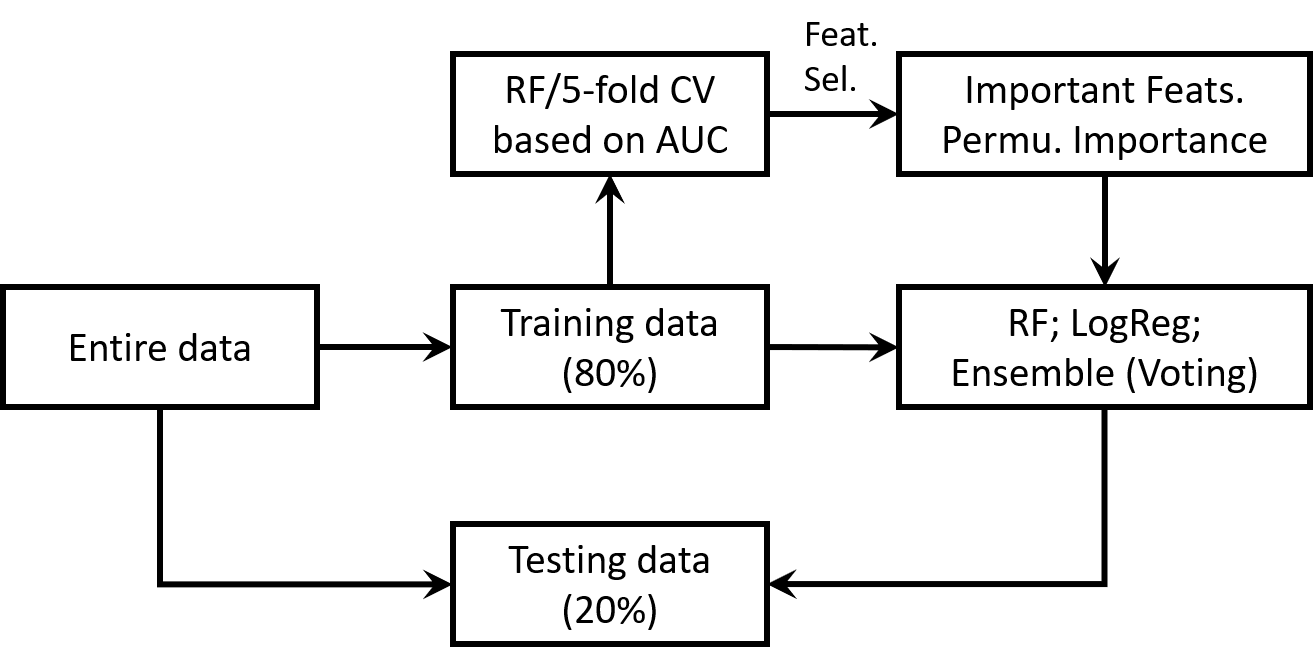
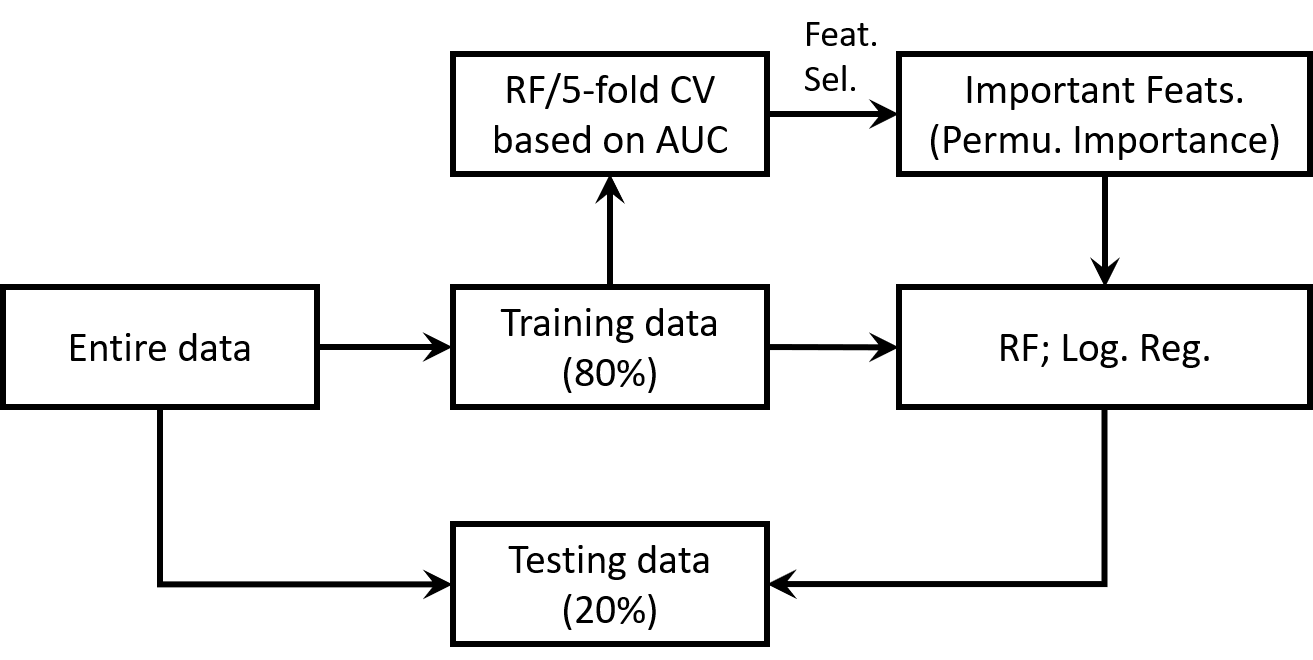
update repo

Changed region(s): [[0.7182, 0.4545, 0.968, 0.6061], [0.968, 0.2121, 0.9992, 0.2424], [0.687, 0.2121, 0.7182, 0.2424]]

diff --git a/README.md b/README.md
@@ -2,7 +2,7 @@
 
 ---
 
-## Predicting Approval Status of Mortgage Refinancing
+## Predicting Lenders' Decision on Home Loan Refinancing Application
 
 **A Classification Analysis**
 
@@ -14,7 +14,7 @@ Final presentation is posted [here](https://github.com/weizhao-BME/metis-project
 
 ### **Introduction** 
 
-Many believe that mortgage rate will stop dropping. The National Association of Realtors expected rates still keep at a low level as 2020. To date, mortgage rate is near record lows, which signifies an economy that continues to struggle. This rate environment is advantageous for those who are seeking a refinancing to offload the financial burdens. Therefore, it is a good idea to apply for refinancing as soon as possible in order to secure a low rate. It is beneficial to understand what financial features lenders focus on to make decisions on approval and how these features play a role in approving or denying applications. 
+The National Association of Realtors expected rates still keep at a low level as 2020. To date, mortgage rate is near record lows, which signifies an economy that continues to struggle. This rate environment is advantageous for those who are seeking a refinancing to offload the financial burdens. Therefore, it is a good idea to apply for refinancing as soon as possible in order to secure a low rate. It is beneficial to understand what financial features lenders focus on to make decisions on approval and how these features play a role in approving or denying applications. 
 
 This project addressed these questions using a machine learning approach. First, the data was collected from Home Mortgage Disclosure Act (HMDA) query website. Second, a feature selection was performed using a 5-fold cross-validated random forest model after initial data cleaning in order to identify important financial features. Following this step, a random forest model was trained using all the training data along with selected features. Because random forest model has limited ability to interpret feature importance, a logistic regression model was trained and tuned using selected features based on a 5-fold cross-validation. Finally, the random forest and logistic regression models were used to establish a voting-based ensemble model for a balanced performance. 
 
@@ -24,7 +24,7 @@ This project addressed these questions using a machine learning approach. First,
 
 The figure below shows the workflow of classification modeling. 
 
-<img src="https://github.com/weizhao-BME/metis-project3/blob/main/figures/workflow.png" alt="Figure 1" width="600"/>
+<img src="https://github.com/weizhao-BME/metis-project3/blob/main/figures/workflow.png" alt="Figure 1" width="500"/>
 
 #### **Data cleaning**
 
@@ -32,7 +32,7 @@ A total of 78620 refinancing applications in Massachusetts  were collected from 
 
 The Figure below shows a summary of the raw data during data query. 
 
-<img src="https://github.com/weizhao-BME/metis-project3/blob/main/figures/data_summary.png" alt="Figure 2" width="600"/>
+<img src="https://github.com/weizhao-BME/metis-project3/blob/main/figures/data_summary.png" alt="Figure 2" width="500"/>
 
 #### **Model-based feature selection**
 
@@ -46,7 +46,7 @@ Permutation importance was calculated to rank the features, because the impurity
 
 For all the training data, the selected important features were employed to train a random forest model. Its performance based on an independent testing dataset, in terms of ROC-AUC and confusion matrix were reported. 
 
-Because the features selected based on permutation importance do not inform how lenders make decisions on approval using these features, a logistic regression model was trained and cross-validated (5-fold) utilizing the existing training and validation datasets. The regularization parameter, penalty strength("C" (list of [0.0, 0.0001, 0.001, 0.01, 0.1, 1.0])),  was tuned to maximize the model performance. Finally, using the best "C", the same selected features and all the training data, a logistic regression model was trained and further tested using the independent testing dataset. This offers a way of investigating the coefficient-based relative feature importance. Similar to the random forest model, the ROC-AUC and confusion matrix were reported. 
+Because the features selected based on permutation importance do not inform how lenders make decision on approval using these features, a logistic regression model was trained and cross-validated (5-fold) utilizing the existing training and validation datasets. The regularization parameter, penalty strength("C" (list of [0.0, 0.0001, 0.001, 0.01, 0.1, 1.0])),  was tuned to maximize the ROC-AUC. Finally, using the best "C", the same selected features and all the training data, a logistic regression model was trained and further tested using the independent testing dataset. This offers a way of investigating the coefficient-based relative feature importance. Similar to the random forest model, the ROC-AUC and confusion matrix were reported. 
 
 ----------
 
@@ -65,7 +65,7 @@ Coefficient-based relative feature importance reported from logistic regression 
 
 and are more likely to reject applications if:
 
-- The load is not subject to HOEPA regulations 
+- The loan is not subject to HOEPA regulations 
 - The property is used as principal residence
 - The applicants have high debt-to-income ratios
 - The property is not primarily used for a business or commercial purpose
@@ -73,13 +73,9 @@ and are more likely to reject applications if:
 
 <img src="https://github.com/weizhao-BME/metis-project3/blob/main/figures/rel_feat_importance_logreg.svg" alt="Figure 4" width="600"/>
 
-Both the random forest and logistic regression models achieved an ROC-AUC of 0.99. The former performed better in predicting denials, while the latter performed better in predicting approvals. 
+Both the random forest and logistic regression models achieved an ROC-AUC of 0.99. The former performed better in predicting denials and yielded comparable performance with the latter in predicting approvals. 
 
 <img src="https://github.com/weizhao-BME/metis-project3/blob/main/figures/confusion_matrices.png" alt="Figure 5" width="800"/>
-
-Finally, the tuned random forest and logistic regression models were used to establish a ensemble model using a soft averaging approach. It achieved an ROC-AUC of 0.99 and a relatively balanced performance between the random forest and logistic regression models.  The figure below shows the confusion matrix of the ensemble model.
-
-<img src="https://github.com/weizhao-BME/metis-project3/blob/main/figures/cf_mat_voting.png" alt="Figure 6" width="420"/>
 
 ------
 
